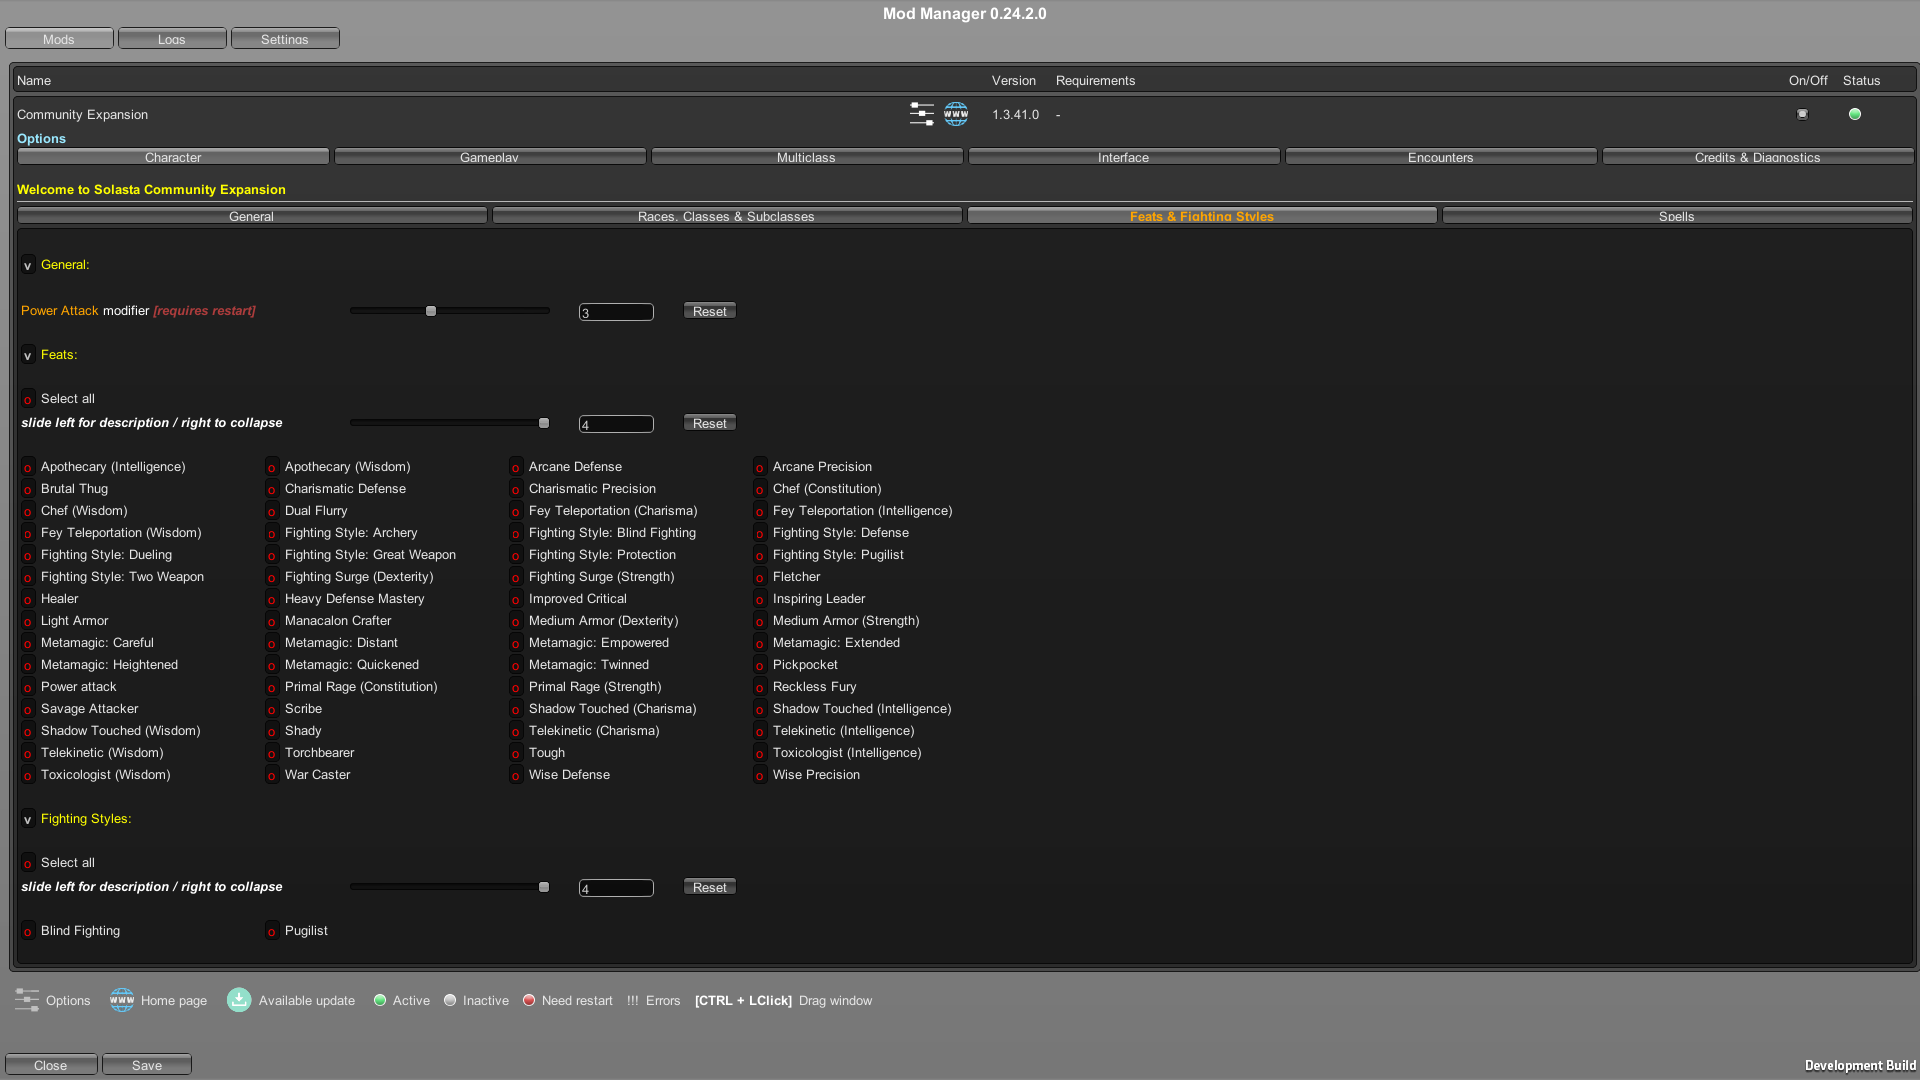
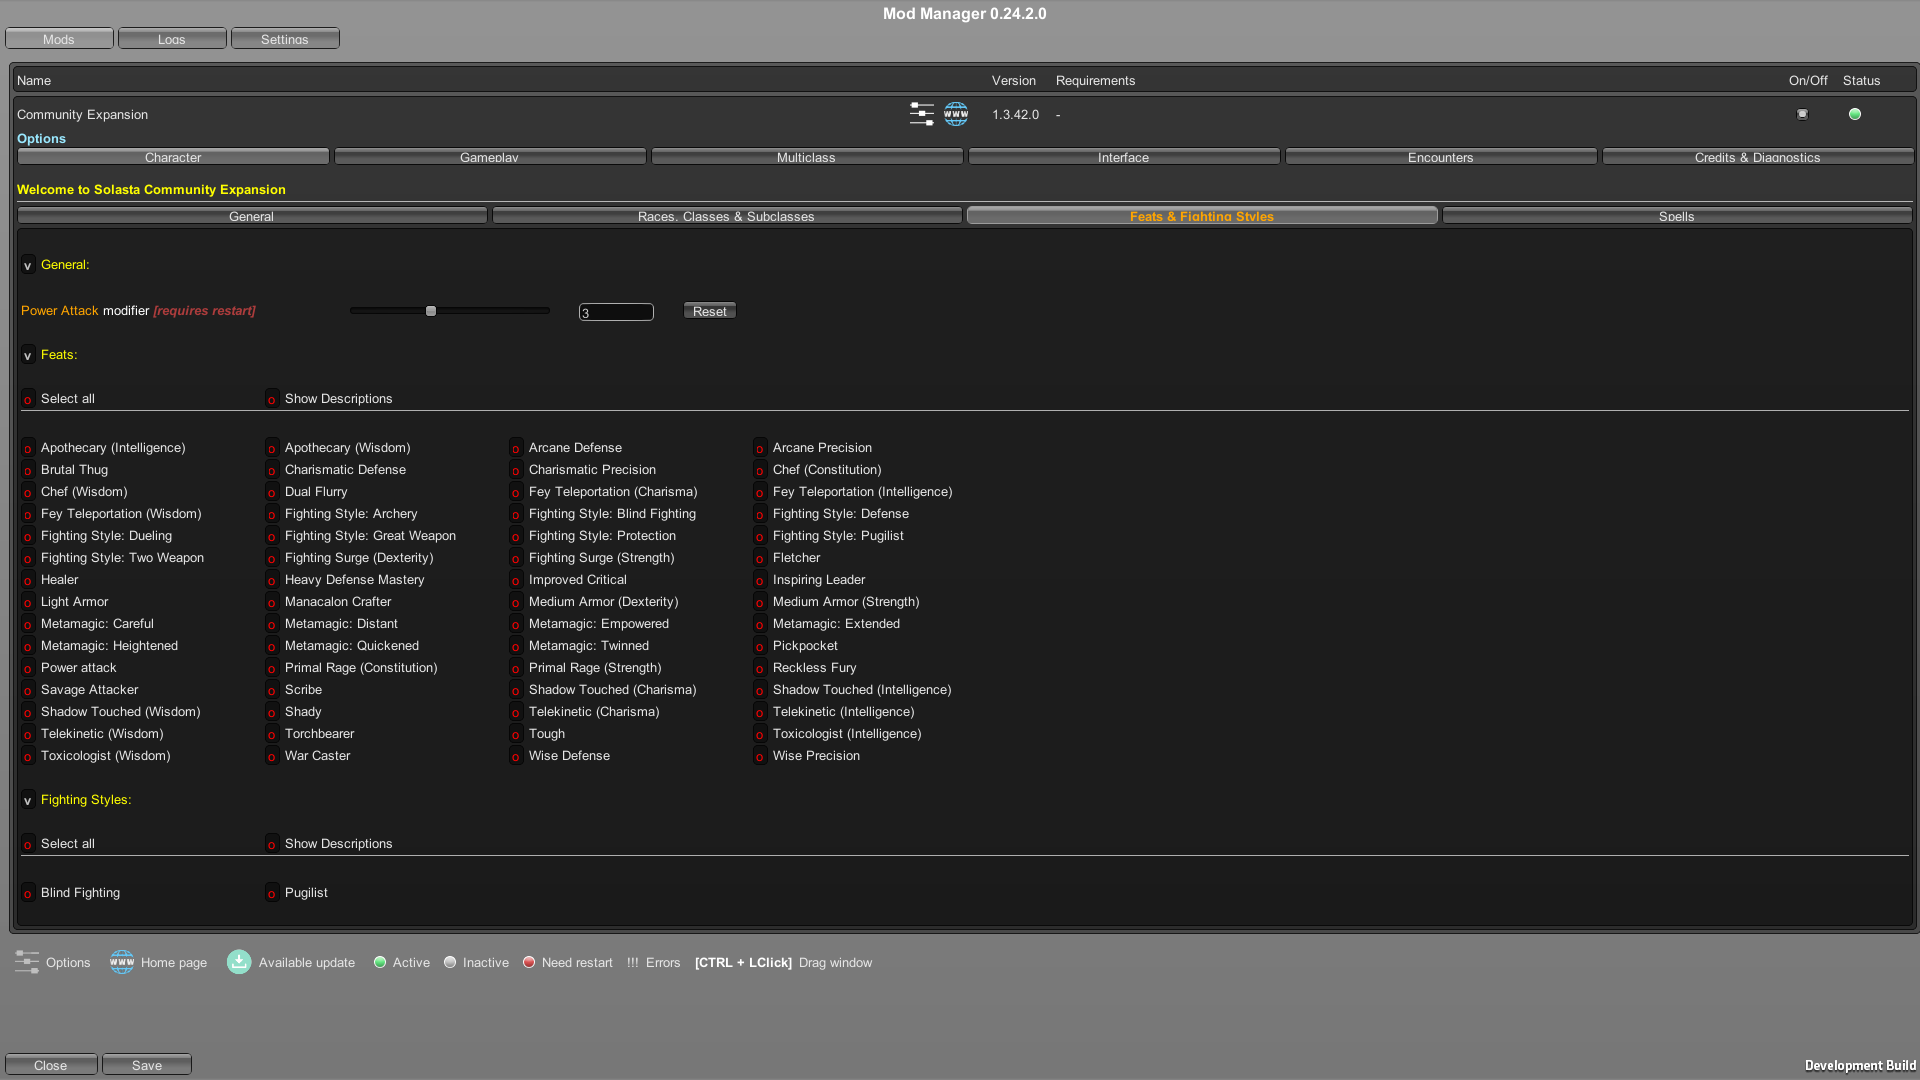
simplify UI

diff --git a/SolastaCommunityExpansion/Settings.cs b/SolastaCommunityExpansion/Settings.cs
@@ -72,16 +72,16 @@ namespace SolastaCommunityExpansion
         // SETTINGS UI TOGGLES
         //
 
-        public bool DisplayGeneralRaceClassSubClassToggle { get; set; }
-        public bool DisplayFeatFightingStyleToggle { get; set; }
-        public bool DisplayRacesToggle { get; set; }
-        public bool DisplayClassesToggle { get; set; }
-        public bool DisplaySubclassesToggle { get; set; }
-        public bool DisplayFeatsToggle { get; set; }
-        public bool DisplayFightingStylesToggle { get; set; }
-        public SerializableDictionary<string, bool> DisplaySpellListsToggle { get; set; } = new SerializableDictionary<string, bool>();
-        public bool DisplayCraftingToggle { get; set; }
-        public bool DisplayMerchantsToggle { get; set; }
+        public bool DisplayGeneralRaceClassSubClassToggle { get; set; } = true;
+        public bool DisplayFeatFightingStyleToggle { get; set; } = true;
+        public bool DisplayRacesToggle { get; set; } = true;
+        public bool DisplayClassesToggle { get; set; } = true;
+        public bool DisplaySubclassesToggle { get; set; } = true;
+        public bool DisplayFeatsToggle { get; set; } = true;
+        public bool DisplayFightingStylesToggle { get; set; } = true;
+        public SerializableDictionary<string, bool> DisplaySpellListsToggle { get; set; } = new();
+        public bool DisplayCraftingToggle { get; set; } = true;
+        public bool DisplayMerchantsToggle { get; set; } = true;
 
         //
         // SETTINGS HIDDEN ON UI
@@ -151,37 +151,35 @@ namespace SolastaCommunityExpansion
         public bool EnableShortRestRechargeOfArcaneWeaponOnWizardArcaneFighter { get; set; }
         public int OverrideRogueConArtistImprovedManipulationSpellDc { get; set; } = 3;
         public int OverrideWizardMasterManipulatorArcaneManipulationSpellDc { get; set; } = 2;
-        public int RaceSliderPosition { get; set; } = 1;
-        public List<string> RaceEnabled { get; } = new List<string>();
-        public int ClassSliderPosition { get; set; } = 1;
-        public List<string> ClassEnabled { get; } = new List<string>();
-        public int SubclassSliderPosition { get; set; } = 1;
-        public List<string> SubclassEnabled { get; } = new List<string>();
+        public int RaceSliderPosition { get; set; } = 4;
+        public List<string> RaceEnabled { get; } = new();
+        public int ClassSliderPosition { get; set; } = 4;
+        public List<string> ClassEnabled { get; } = new();
+        public int SubclassSliderPosition { get; set; } = 4;
+        public List<string> SubclassEnabled { get; } = new();
 
         //
         // Characters - Feats
         //
 
         public int FeatPowerAttackModifier { get; set; } = 3;
-        public int FeatSliderPosition { get; set; } = 1;
-        public List<string> FeatEnabled { get; } = new List<string>();
+        public int FeatSliderPosition { get; set; } = 4;
+        public List<string> FeatEnabled { get; } = new();
 
         //
         // Characters - Fighting Styles
         //
 
-        public int FightingStyleSliderPosition { get; set; } = 1;
-        public List<string> FightingStyleEnabled { get; } = new List<string>();
+        public int FightingStyleSliderPosition { get; set; } = 4;
+        public List<string> FightingStyleEnabled { get; } = new();
 
         //
         // Characters - Spells
         //
 
-        public SerializableDictionary<string, int> SpellListSliderPosition { get; set; } = new SerializableDictionary<string, int>();
+        public SerializableDictionary<string, int> SpellListSliderPosition { get; set; } = new();
 
-        public SerializableDictionary<string, List<string>> SpellListSpellEnabled { get; set; } = new SerializableDictionary<string, List<string>>();
-
-        //public SerializableDictionary<string, List<string>> SpellSpellListEnabled { get; set; } = new SerializableDictionary<string, List<string>>();
+        public SerializableDictionary<string, List<string>> SpellListSpellEnabled { get; set; } = new();
 
         //
         // Gameplay - Rules
@@ -235,9 +233,9 @@ namespace SolastaCommunityExpansion
         public int SetBeltOfDwarvenKindBeardChances { get; set; } = 50;
 
         // Crafting
-        public List<string> CraftingInStore { get; } = new List<string>();
-        public List<string> CraftingItemsInDM { get; } = new List<string>();
-        public List<string> CraftingRecipesInDM { get; } = new List<string>();
+        public List<string> CraftingInStore { get; } = new();
+        public List<string> CraftingItemsInDM { get; } = new();
+        public List<string> CraftingRecipesInDM { get; } = new();
 
         // Merchants
         public bool StockGorimStoreWithAllNonMagicalClothing { get; set; }
@@ -302,7 +300,7 @@ namespace SolastaCommunityExpansion
         public bool RemoveBugVisualModels { get; set; }
 
         // Spells
-        public int MaxSpellLevelsPerLine { get; set; } = 5;
+        public int MaxSpellLevelsPerLine { get; set; } = 4;
 
         //
         // Interface - Keyboard & Mouse

diff --git a/SolastaCommunityExpansion/Viewers/Displays/SpellsDisplay.cs b/SolastaCommunityExpansion/Viewers/Displays/SpellsDisplay.cs
@@ -28,6 +28,14 @@ namespace SolastaCommunityExpansion.Viewers.Displays
 
             UI.Label("");
 
+            intValue = SpellLevelFilter;
+            if (UI.Slider("spell level filter ".bold().italic().white() + "[-1 to display all spells]".bold().italic().yellow(), ref intValue, SHOW_ALL, 9, SHOW_ALL))
+            {
+                SpellLevelFilter = intValue;
+            }
+
+            UI.Label("");
+
             using (UI.HorizontalScope())
             {
                 toggle = SpellsContext.IsAllSetSelected();
@@ -53,14 +61,6 @@ namespace SolastaCommunityExpansion.Viewers.Displays
                     }
                 }
             }
-
-            intValue = SpellLevelFilter;
-            if (UI.Slider("spell level filter ".bold().italic().white() + "[-1 to display all spells]".bold().italic().yellow(), ref intValue, SHOW_ALL, 9, SHOW_ALL))
-            {
-                SpellLevelFilter = intValue;
-            }
-
-            UI.Label("");
 
             UI.Div();
 

diff --git a/SolastaCommunityExpansion/Viewers/Displays/Shared.cs b/SolastaCommunityExpansion/Viewers/Displays/Shared.cs
@@ -62,11 +62,17 @@ namespace SolastaCommunityExpansion.Viewers.Displays
                             switchAction.Invoke(registeredDefinition, selectAll);
                         }
                     }
+
+                    toggle = sliderPosition == 1;
+                    if (UI.Toggle("Show Descriptions", ref toggle, UI.Width(PIXELS_PER_COLUMN)))
+                    {
+                        sliderPosition = toggle ? 1 : 4;
+                    }
                 }
 
+                //UI.Slider("slide left for description / right to collapse".white().bold().italic(), ref sliderPosition, 1, maxColumns, 1, "");
 
-                UI.Slider("slide left for description / right to collapse".white().bold().italic(), ref sliderPosition, 1, maxColumns, 1, "");
-
+                UI.Div();
                 UI.Label("");
 
                 int columns;
